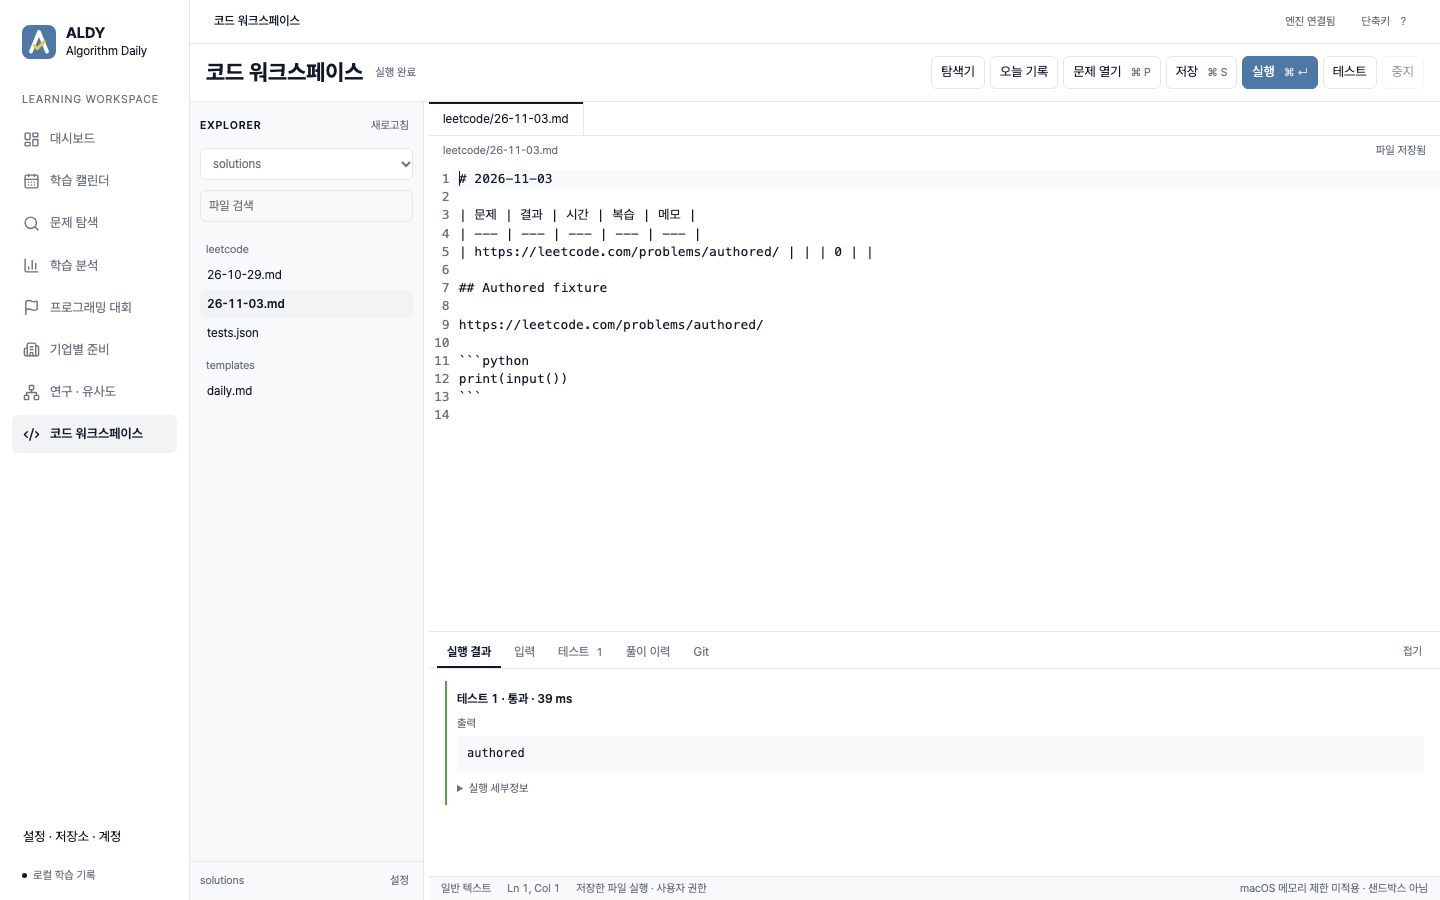
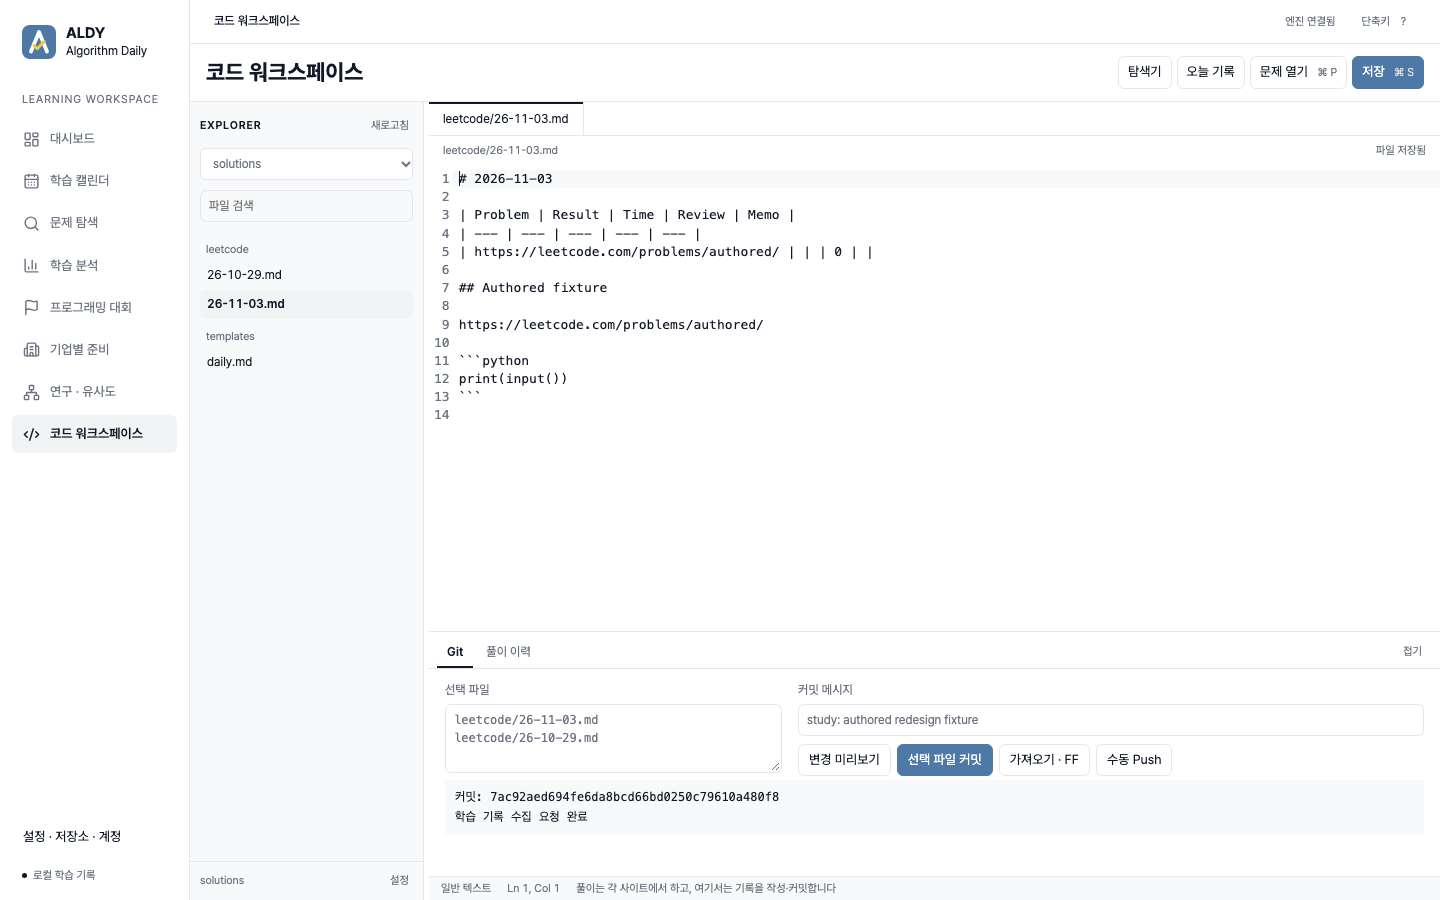
feat(desktop): record-centric Code Workspace without run/test controls
Problems are solved on the platforms (user decision), so the workspace
drops run, test, stop, stdin and test-case controls; the bottom panel
keeps Git (default) and history. Stored output/input/tests layouts fall
back to git. Backend run and the native runner stay for compatibility.
Spec NW-11/NW-12, docs and the README screenshot updated.

diff --git a/desktop/ui/index.html b/desktop/ui/index.html
@@ -17,7 +17,7 @@
     <header class="desktop-topbar"><span id="route-label">대시보드</span><div class="topbar-actions"><span id="connection" role="status">연결 확인 중</span><button id="keyboard-help" type="button" title="단축키 안내">단축키 <kbd>?</kbd></button></div></header>
     <main id="workspace" class="learning-frame"><iframe id="learning-frame" title="학습 워크스페이스" src="/workspace/#dashboard"></iframe></main>
     <main id="tools" class="code-workspace" hidden>
-      <div class="code-toolbar"><div class="code-heading"><h1>코드 워크스페이스</h1><span id="execution-state" role="status">대기</span></div><div class="toolbar-actions"><button id="toggle-explorer" type="button" aria-pressed="false" title="탐색기 접기 · ⌘/Ctrl+B">탐색기</button><button id="open-today" type="button" title="오늘 날짜의 풀이 기록 파일 열기">오늘 기록</button><button id="open-problem" type="button">문제 열기 <kbd>⌘ P</kbd></button><button id="save" type="button">저장 <kbd>⌘ S</kbd></button><button id="run" class="primary" type="button">실행 <kbd>⌘ ↵</kbd></button><button id="run-tests" type="button">테스트</button><button id="cancel-run" type="button" disabled>중지</button></div></div>
+      <div class="code-toolbar"><div class="code-heading"><h1>코드 워크스페이스</h1></div><div class="toolbar-actions"><button id="toggle-explorer" type="button" aria-pressed="false" title="탐색기 접기 · ⌘/Ctrl+B">탐색기</button><button id="open-today" type="button" title="오늘 날짜의 풀이 기록 파일 열기">오늘 기록</button><button id="open-problem" type="button">문제 열기 <kbd>⌘ P</kbd></button><button id="save" class="primary" type="button">저장 <kbd>⌘ S</kbd></button></div></div>
       <div id="code-layout" class="code-layout">
         <aside id="file-explorer" class="file-explorer" aria-label="저장소 파일 탐색기">
           <div class="explorer-head"><span class="section-label">EXPLORER</span><button id="refresh-files" type="button" class="text-control" title="파일 새로고침">새로고침</button></div>
@@ -38,22 +38,19 @@
             <form class="start-option" data-start="create"><h3>새로 시작</h3><p>빈 폴더에 새 Git 저장소를 만듭니다. 나중에 GitHub에 올릴 수 있어요.</p><div class="path-picker"><input name="path" required placeholder="/Users/me/algorithm-solution" aria-label="새 저장소 폴더 경로"><button type="button" data-pick="path" hidden>폴더 선택…</button></div><label class="start-check" hidden><input type="checkbox" name="github" checked> GitHub에 같은 이름의 비공개 저장소도 만들기</label><button type="submit" class="primary">새 저장소 만들기</button></form>
           </div>
           </section>
-        <section class="editor-workbench" aria-label="코드와 실행 결과">
+        <section class="editor-workbench" aria-label="풀이 기록 편집">
           <div id="buffer-tabs" class="buffer-tabs" role="tablist" aria-label="열린 파일"></div>
           <div class="editor-context"><h2 id="filename">왼쪽에서 파일을 고르거나 문제 열기(⌘P)로 새 풀이를 시작하세요</h2><span id="draft-state" role="status"></span></div>
           <div id="editor" aria-label="코드 편집기"></div>
           <div id="panel-resizer" class="workspace-resizer horizontal" role="separator" tabindex="0" aria-label="실행 패널 높이 조정" aria-orientation="horizontal"></div>
-          <section id="execution-panel" class="execution-panel" aria-label="실행과 학습 기록">
+          <section id="execution-panel" class="execution-panel" aria-label="커밋과 풀이 이력">
             <div class="panel-tabs" role="tablist" aria-label="워크스페이스 패널">
-              <button type="button" data-panel="output" role="tab" aria-selected="true">실행 결과</button><button type="button" data-panel="input" role="tab">입력</button><button type="button" data-panel="tests" role="tab">테스트 <span id="test-count">0</span></button><button type="button" data-panel="record" role="tab">풀이 이력</button><button type="button" data-panel="git" role="tab">Git</button><button id="toggle-panel" class="panel-collapse" type="button" aria-expanded="true" title="패널 접기 · ⌘/Ctrl+J">접기</button>
+              <button type="button" data-panel="git" role="tab" aria-selected="true">Git</button><button type="button" data-panel="record" role="tab">풀이 이력</button><button id="toggle-panel" class="panel-collapse" type="button" aria-expanded="true" title="패널 접기 · ⌘/Ctrl+J">접기</button>
             </div>
-            <div id="panel-output" class="panel-body" role="tabpanel"><div id="run-result" aria-live="polite" class="run-results"><p class="compact-empty">저장한 파일을 실행하면 결과가 여기에 표시됩니다.</p></div></div>
-            <div id="panel-input" class="panel-body" role="tabpanel" hidden><label class="input-label" for="stdin">표준 입력</label><textarea id="stdin" class="code-input" spellcheck="false" placeholder="실행에 전달할 입력을 적으세요."></textarea></div>
-            <div id="panel-tests" class="panel-body" role="tabpanel" hidden><div class="panel-toolbar"><span>사용자 작성 테스트</span><div><button id="add-test" type="button">테스트 추가</button><button id="load-tests" type="button">불러오기</button><button id="save-tests" type="button">tests.json 저장</button></div></div><div id="test-cases"></div><details class="test-json"><summary>JSON 편집</summary><label class="sr-only" for="tests">사용자 테스트 JSON</label><textarea id="tests" class="code-input" rows="4" spellcheck="false" placeholder='[{"input":"","expected":"","comparison":"exact"}]'></textarea><button id="apply-test-json" type="button">JSON 반영</button></details></div>
             <div id="panel-record" class="panel-body" role="tabpanel" hidden><details id="code-history" class="code-history"><summary>이 문제의 풀이 기록</summary><div id="code-history-content"></div><button id="open-all-records" type="button">문제 탐색에서 전체 기록 보기</button></details></div>
             <div id="panel-git" class="panel-body" role="tabpanel" hidden><div class="git-grid"><label>선택 파일<textarea id="commit-paths" class="code-input" rows="3" placeholder="한 줄에 한 파일 경로"></textarea></label><div><label>커밋 메시지<input id="commit-message" placeholder="study: solve problem"></label><div class="button-row"><button id="preview" type="button">변경 미리보기</button><button id="commit" class="primary" type="button">선택 파일 커밋</button><button id="sync" type="button">가져오기 · FF</button><button id="push" type="button">수동 Push</button></div></div></div><pre id="diff" class="diff-output"></pre></div>
           </section>
-          <div class="editor-statusbar"><span id="file-language">파일 미선택</span><span id="cursor-position">Ln 1, Col 1</span><span>저장한 파일 실행 · 사용자 권한</span><span class="memory-notice">macOS 메모리 제한 미적용 · 샌드박스 아님</span></div>
+          <div class="editor-statusbar"><span id="file-language">파일 미선택</span><span id="cursor-position">Ln 1, Col 1</span><span>풀이는 각 사이트에서 하고, 여기서는 기록을 작성·커밋합니다</span></div>
         </section>
       </div>
     </main>
@@ -65,7 +62,7 @@
     <section><h3>업데이트</h3><div class="button-row"><button id="update-check" type="button">업데이트 확인</button><button id="update-stage" type="button" disabled>다운로드</button></div><p id="update-status" role="status" class="panel-note"></p></section>
   </div></dialog>
   <dialog id="problem-dialog" class="problem-dialog" aria-labelledby="problem-dialog-title"><header class="drawer-head"><h2 id="problem-dialog-title">문제 열기</h2><button id="close-problem" class="overlay-dismiss" type="button" aria-label="문제 열기 취소">×</button></header><form id="problem-form"><label>플랫폼<select id="platform"><option value="leetcode">LeetCode</option><option value="codeforces">Codeforces</option><option value="atcoder">AtCoder</option></select></label><label>문제 ID<input id="problem-id" required placeholder="two-sum"></label><label>제목 <span class="optional-label">선택</span><input id="problem-title" placeholder="Two Sum"></label><label>문제 URL<input id="problem-url" type="url" required placeholder="https://leetcode.com/problems/two-sum/"></label><label>언어<select id="language"><option value="python">Python 3</option><option value="cpp">C++17</option></select></label><p class="panel-note">오늘 기록 파일(예: leetcode/26-11-02.md)의 표에 문제 링크를 한 줄 추가하고, 아래에 제목과 빈 코드 블록을 만듭니다. 결과 칸은 비워 두니 풀고 나서 1 또는 0을 적으세요. 이미 있는 문제는 다시 추가하지 않습니다.</p><button class="primary" type="submit">오늘 기록에 추가</button></form></dialog>
-  <div id="shortcut-dialog" class="shortcut-dialog" popover="auto" role="region" aria-label="키보드 단축키"><header class="drawer-head"><h2>키보드 단축키</h2><button id="close-shortcuts" class="overlay-dismiss" type="button" aria-label="단축키 닫기">×</button></header><dl><dt>⌘ / Ctrl + S</dt><dd>현재 파일 저장</dd><dt>⌘ / Ctrl + Enter</dt><dd>현재 파일 실행</dd><dt>⌘ / Ctrl + Shift + Enter</dt><dd>사용자 테스트 실행</dd><dt>⌘ / Ctrl + P</dt><dd>문제 열기</dd><dt>⌘ / Ctrl + B</dt><dd>탐색기 접기</dd><dt>⌘ / Ctrl + J</dt><dd>실행 패널 접기</dd></dl></div>
+  <div id="shortcut-dialog" class="shortcut-dialog" popover="auto" role="region" aria-label="키보드 단축키"><header class="drawer-head"><h2>키보드 단축키</h2><button id="close-shortcuts" class="overlay-dismiss" type="button" aria-label="단축키 닫기">×</button></header><dl><dt>⌘ / Ctrl + S</dt><dd>현재 파일 저장</dd><dt>⌘ / Ctrl + P</dt><dd>문제 열기</dd><dt>⌘ / Ctrl + B</dt><dd>탐색기 접기</dd><dt>⌘ / Ctrl + J</dt><dd>아래 패널 접기</dd></dl></div>
   <div id="notice" class="desktop-notice" role="status" aria-live="polite" hidden></div>
   <button id="workspace-tab" type="button" hidden>학습 워크스페이스</button><button id="tools-tab" type="button" hidden>코드 · 실행 · 기록</button>
   <script type="module" src="/desktop/ui/editor-bundle.js"></script>

diff --git a/README.md b/README.md
@@ -26,7 +26,7 @@ xattr -dr com.apple.quarantine /Applications/ALDY.app
 1. **ALDY를 엽니다.** 첫 실행에서 "새로 시작"을 고르거나, 이미 쓰던 학습 기록(SQLite)을 복사해 옵니다.
 2. **코드 워크스페이스에서 풀이 저장소를 연결합니다.**
    GitHub로 로그인(선택)한 뒤 내 저장소를 고르거나, 컴퓨터에 있는 폴더를 연결하거나, 새 저장소를 만듭니다.
-3. **매일 학습 일지를 씁니다.** "오늘 기록"을 누르면 `leetcode/YY-MM-DD.md`가 열립니다. "문제 열기(⌘P)"로 문제를 추가하고, 코드 블록에 풀이를 쓴 뒤 실행해 봅니다.
+3. **매일 학습 일지를 씁니다.** "오늘 기록"을 누르면 `leetcode/YY-MM-DD.md`가 열립니다. "문제 열기(⌘P)"로 문제를 추가하고, 문제는 LeetCode·Codeforces·AtCoder 사이트에서 풉니다. 풀이 코드와 메모를 일지에 남겨 둡니다.
    다 풀면 표의 결과 칸에 `1`(해결) 또는 `0`(미해결)을 적습니다.
 
    ```md
@@ -105,7 +105,7 @@ xattr -dr com.apple.quarantine /Applications/ALDY.app
 
 - **오늘 기록**: `leetcode/YY-MM-DD.md`처럼 오늘 날짜의 일지를 엽니다. 없으면 저장소의 `templates/daily.md`로 만듭니다.
 - **문제 열기 (⌘P)**: 일지 표에 문제 한 줄과 `## 문제 제목`, 빈 코드 블록을 추가합니다. 결과 칸은 비워 두며, 풀고 나서 직접 `1`(해결) 또는 `0`(미해결)을 적습니다.
-- **실행 / 테스트**: 커서가 있는 Python·C++ 코드 블록을 실행합니다. 실행은 시간·출력 제한이 있지만 샌드박스는 아닙니다.
+- **풀이는 각 사이트에서**: 앱은 채점기가 아니라 기록 도구입니다. 코드 실행·테스트 버튼은 없습니다.
 - **Git** 패널에서 고른 파일만 커밋하고, Push는 직접 누를 때만 합니다. 커밋된 일지가 학습 기록으로 들어갑니다.
 
 ## 추천은 이렇게 동작합니다
@@ -137,7 +137,7 @@ node --test desktop/test/*.test.mjs
 | 폴더 | 내용 |
 |---|---|
 | `hosted/` | 학습 엔진(유일한 학습 기록 작성자), 로컬 서버, 화면 |
-| `desktop/` | Tauri 데스크톱 셸, 코드 워크스페이스, 로컬 실행기 |
+| `desktop/` | Tauri 데스크톱 셸, 코드 워크스페이스(일지 편집·커밋) |
 | `specs/` | 요구사항·설계·작업·ADR (구현보다 우선) |
 | `research/` | 유사도 지도 등 탐색 연구 (추천에 쓰지 않음) |
 | `curriculum/`, `assets/` | 검토·해시 고정된 입력 데이터 |

diff --git a/desktop/README.md b/desktop/README.md
@@ -21,13 +21,14 @@ newest available catalog automatically. The tools panel can explicitly select an
 Do not launch a candidate against real learner data for tests.
 
 Open the existing workspace or use **코드 · 실행 · 기록**:
-connect/create/clone a repository; open a problem; edit in CodeMirror; save; run user-authored tests; record a result;
+connect/create/clone a repository; open today's log or add a problem; edit in CodeMirror; save; write the result in the log;
 review the diff; commit selected paths. Only local commits feed ingestion. Push is an explicit separate action.
 An imported solution must exist in the catalog before the engine accepts a daily log entry. Conflicting rows are rejected
 before saving. A successful commit with failed ingestion remains a successful commit; retry ingestion rather than commit.
 
-Drafts persist in app data independently of repository saves. Every run executes the saved file. Runs are not sandboxed;
-macOS memory is not enforced. Windows requires the native Job Object helper:
+Drafts persist in app data independently of repository saves. The Code Workspace has no run/test controls since 2026-11-03
+(record-centric: problems are solved on the platforms). The backend `run` command and the Windows Job Object helper below are kept
+for compatibility only; runs are not sandboxed and macOS memory is not enforced:
 
 ```sh
 cargo build --release --manifest-path desktop/native-runner/Cargo.toml --locked

diff --git a/specs/desktop-app/new-user-workspace.md b/specs/desktop-app/new-user-workspace.md
@@ -46,3 +46,13 @@ make GitHub sign-in work, and make the Code Workspace edit the daily Markdown lo
 - [x] T4 Start panel step flow (sign in, repository list, create on GitHub); browser check with a mocked native bridge.
 - [x] T5 Rebuilt ALDY.app (2026-11-02, unsigned, Apple Silicon); onboarding smoke passes close/cancel/new on the packaged binary.
   Not verified natively: live GitHub sign-in (no client ID registered yet), the folder picker dialog, Windows.
+
+## Record-centric workspace (user decision 2026-11-03)
+
+Problems are solved on LeetCode, Codeforces and AtCoder, not in ALDY. The Code Workspace therefore records rather than executes:
+
+- NW-11 THE SYSTEM SHALL NOT show run, test, stop, standard-input or test-case controls in the Code Workspace. Its bottom panel SHALL
+  contain only Git (default) and solution history. NW-9 (run the fenced block at the cursor) is superseded for the UI.
+- NW-12 The backend `run` command, `extractCodeBlock` and the native runner stay for compatibility and tests; they are not reachable
+  from the UI. A judge (official tests, sandbox) is out of scope; verified outcomes, if added, come from platform submission data.
+- Stored layout values `output`, `input` and `tests` fall back to `git`.

diff --git a/specs/desktop-app/requirements.md b/specs/desktop-app/requirements.md
@@ -57,7 +57,7 @@ Repository and editor
 Execution and tests
 - DR-F4 THE SYSTEM SHALL run the current file with stdin, and with user-authored tests in `<problem dir>/tests.json`
   (input, expected output, comparison: exact, whitespace, float tolerance).
-- DR-F5 Every run SHALL have a wall-clock timeout (5 s (P)), a CPU limit, a 1 MiB output cap and kill of the whole process
+- DR-F5 (UI removed 2026-11-03, see new-user-workspace.md NW-11; backend only) Every run SHALL have a wall-clock timeout (5 s (P)), a CPU limit, a 1 MiB output cap and kill of the whole process
   tree: a process group on macOS, a Job Object on Windows. Memory limits: a Job Object limit on Windows; on macOS only
   where enforced, otherwise the UI says "memory limit not enforced". Runs use the user's permissions and are not a sandbox.
 - DR-F6 Toolchains SHALL be detected, not bundled: Python 3 (`python3`, or `py -3` on Windows) and C++17 (`clang++`, `g++`, or

diff --git a/AGENTS.md b/AGENTS.md
@@ -922,3 +922,10 @@ Keep these distinctions clear in summaries and docs:
 - Desktop settings (`#settings-drawer`, class `settings-modal`) is a centered native dialog, not a side drawer; the id stays for scripts/tests.
 - Appearance is the icon radio group `#appearance [data-mode=light|system|dark]` in the modal header (no select). There is no language
   setting yet; do not add an inert language control.
+
+
+## Record-centric Code Workspace (2026-11-03)
+
+- User decision: problems are solved on the platforms; ALDY only records. Do not reintroduce run/test/stop/stdin/test-case controls or
+  CPU/memory run displays in the Code Workspace (specs/desktop-app/new-user-workspace.md NW-11). Bottom panel = Git (default) + history.
+- Backend `run`, `extractCodeBlock` and desktop/native-runner remain for compatibility; a judge stays out of scope.
